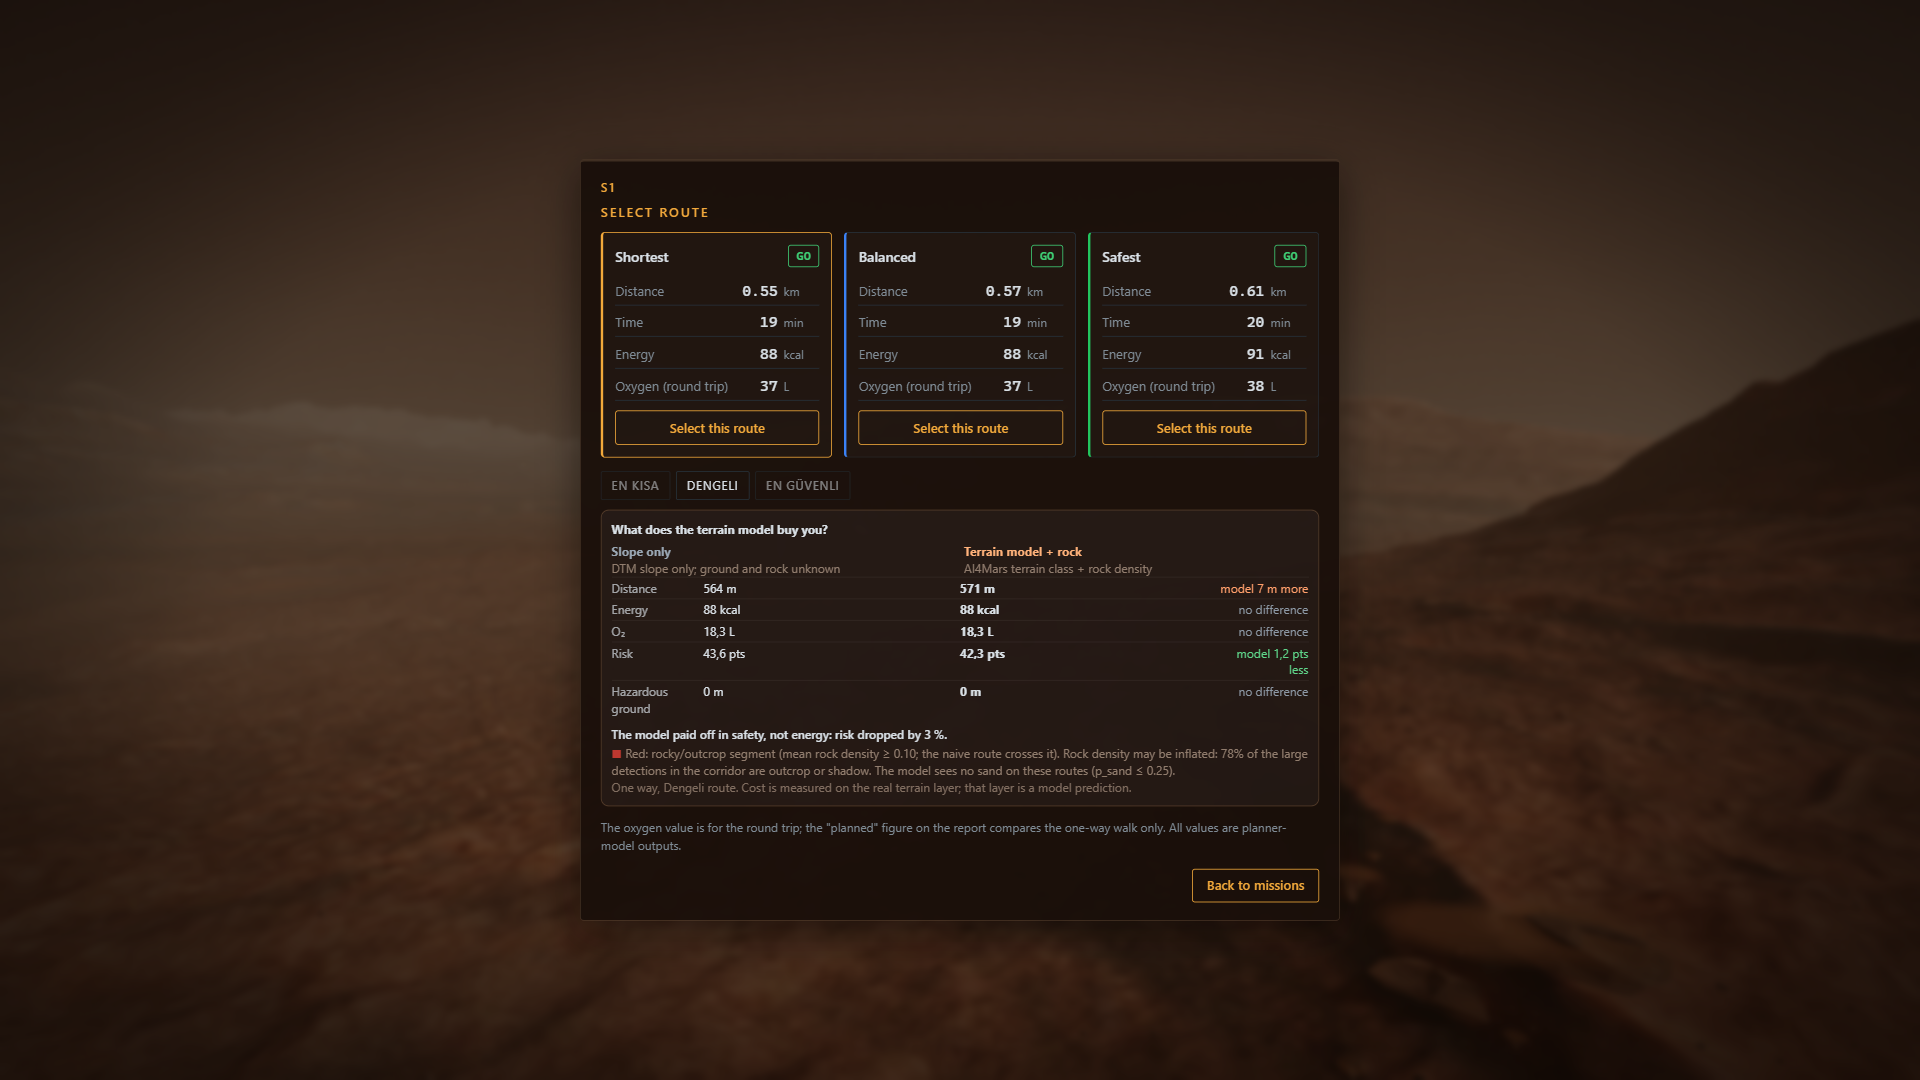
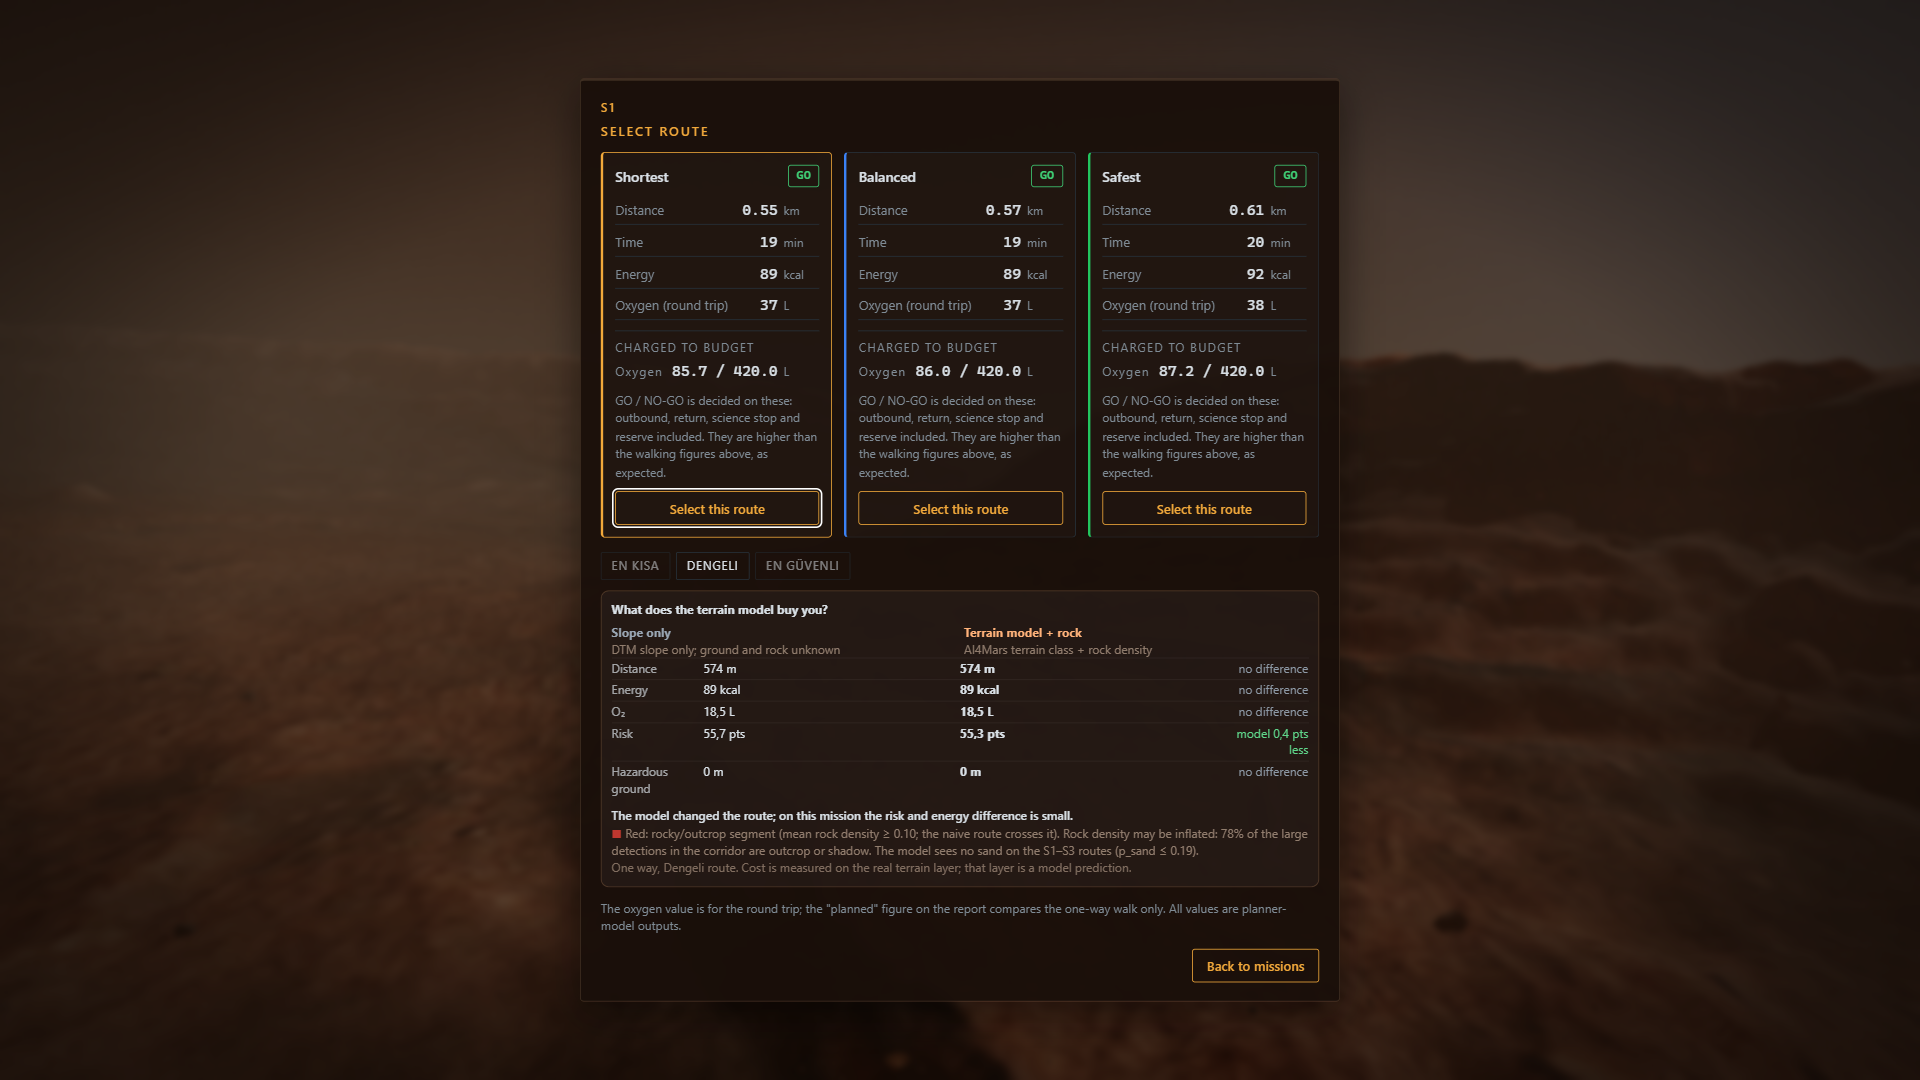
docs: slayt 4 güncel rota ekranı + 20° sonrası model bulgusu (Emre #127)
sim_03 güncel main'den yeniden çekildi (kartta bütçeye yazılan O₂).
Slayt 4 ve taslak: tam model ile eğim+kaya S1–S3'te aynı yol (9/9);
modelin değeri kask kamerası, zemin oranı ve belirsizlikte.

diff --git a/docs/sunum_taslak.md b/docs/sunum_taslak.md
@@ -52,6 +52,7 @@ Söylenmeyecekler (denetimde YASAK): "NASA onayladı", "güvenli rota garantisi"
   - Slope (DTM) + rocks (our shadow-based detector) + terrain class with uncertainty (AI4Mars-trained model).
   - Suited walking energy: Pandolf load-carriage equation, calibrated to Apollo EVA data (272 W).
   - The planner returns shortest / balanced / safest routes with per-segment reasons; mission limits and walk telemetry are computed in the simulator.
+- **Konuşmacı notu (15 Kasım, Emre #127):** Geçilmez eğim 20° olunca zemin modeli S1–S3 rotalarını değiştirmiyor: tam model ile "eğim + kaya" 9 durumun 9'unda aynı yolu buluyor, risk farkı %0–2. "Model rotayı değiştirdi" deme; modelin değerini kask kamerası (gerçek Navcam + maske), ayak altı zemin oranı ve dürüst belirsizlik üzerinden anlat.
 - **Görsel:** Akış şeması: DTM → eğim · HiRISE → kaya · Navcam → zemin → maliyet haritası → 3 rota → simülatör (HUD, tarayıcı, karne).
   Yardımcı: `docs/data/img/rock_abundance_detection.png`, `docs/figures/rover_terrain_examples.png`.
 

diff --git a/docs/submission/SLIDES.md b/docs/submission/SLIDES.md
@@ -29,6 +29,7 @@ Each number carries its source in `[brackets]`.
 - Learned terrain class (AI4Mars model) + rock abundance (our HiRISE detector) set each cell's terrain coefficient.
 - Pandolf walking-energy equation, calibrated to the Apollo EVA average of 272 W, gives cost per segment. [`docs/metabolic_model.md`; SP-368]
 - Every segment shows its reason and the model's confidence; where evidence is thin, the interface shows an uncertainty warning.
+- Honest result: with the 20° slope limit, the full terrain model and the slope + rock planner find the same S1–S3 paths (9 of 9); the risk difference is 0–2%. The model's value shows in the helmet camera, the ground readout and its uncertainty. [`#127`, Emre]
 - **Image:** flow diagram (DTM → slope · HiRISE → rocks · Navcam → terrain class → cost map → 3 routes → simulator) plus `docs/figures/sim_03_routes_compare.png` (three routes + "What does the terrain model buy you?": slope-only vs terrain model + rock). Support: `docs/figures/rover_terrain_examples.png`.
 
 ## 5. One mission, start to finish
